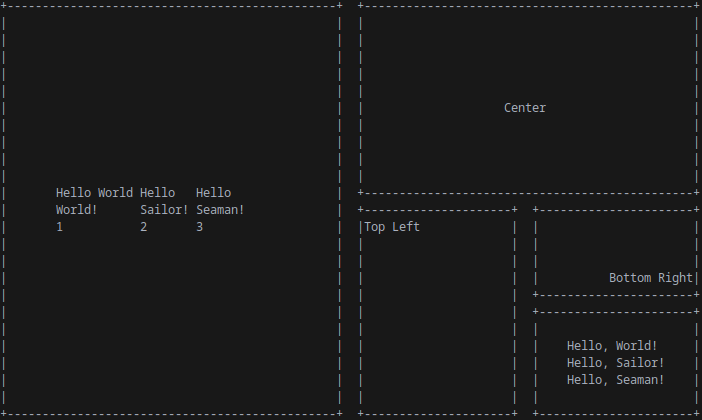
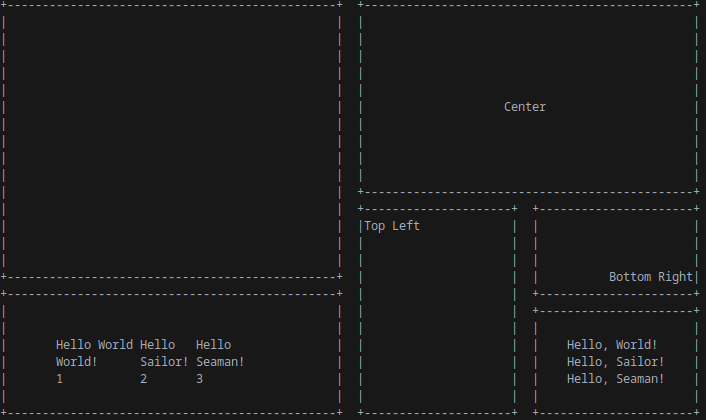
Add the possibility of splitting rectangles at a given position
Before there were only available the `split_vertically` and
`split_horizontally` methods that would split the rectangle in half by
default. Now there are `split_vertically_at` and `split_horizontally_at`
that accepts a `f32` as a percentage of the rectangle's size.

diff --git a/src/lib.rs b/src/lib.rs
@@ -50,7 +50,14 @@ impl Rectangle {
     }
 
     pub fn split_horizontally(self) -> (Rectangle, Rectangle) {
-        let width = self.width / 2;
+        self.split_horizontally_at(0.5)
+    }
+
+    pub fn split_horizontally_at(self, percentage: f32) -> (Rectangle, Rectangle) {
+        assert!(percentage > 0.0 && percentage < 1.0);
+
+        let left_width = (self.width as f32 * percentage) as u32;
+        let right_width = self.width - left_width;
         // Horizontal split without gaps        Vertical split without gaps
         //        +-----++-----+                      +------------+
         //        |     ||     |                      |            |
@@ -72,37 +79,43 @@ impl Rectangle {
         let left = Rectangle {
             x: self.x,
             y: self.y,
-            width: width - gap,
+            width: left_width - gap,
             height: self.height,
         };
         let right = Rectangle {
-            x: self.x + width + gap,
+            x: self.x + left_width + gap,
             y: self.y,
-            width: (self.width - width - gap),
+            width: (right_width - gap),
             height: self.height,
         };
 
         (left, right)
     }
-
     pub fn split_vertically(self) -> (Rectangle, Rectangle) {
-        let height = self.height / 2;
+        self.split_vertically_at(0.5)
+    }
+    pub fn split_vertically_at(self, percentage: f32) -> (Rectangle, Rectangle) {
+        assert!(percentage > 0.0 && percentage < 1.0);
+
+        let top_height = (self.height as f32 * percentage) as u32;
+        let bottom_height = self.height - top_height;
 
         let top = Rectangle {
             x: self.x,
             y: self.y,
             width: self.width,
-            height,
+            height: top_height,
         };
         let bottom = Rectangle {
             x: self.x,
-            y: self.y + height,
+            y: self.y + top_height,
             width: self.width,
-            height: (self.height - height),
+            height: bottom_height,
         };
 
         (top, bottom)
     }
+
 
     pub fn text(
         self,

diff --git a/examples/example_1.rs b/examples/example_1.rs
@@ -5,6 +5,7 @@ fn main() {
 
     let screen = terminal.area();
     let (left, right) = screen.split_horizontally();
+    let (left_top, left_bottom) = left.split_vertically_at(0.7);
     let (top, bottom) = right.split_vertically();
     let (bottom_left, bottom_right) = bottom.split_horizontally();
     let (bottom_right_top, bottom_right_bottom) = bottom_right.split_vertically();
@@ -37,7 +38,7 @@ fn main() {
         HorizontalAlignment::Center,
     );
 
-    let table = left.table(
+    let table = left_bottom.table(
         vec![
             vec![
                 "Hello World".to_string(),
@@ -55,6 +56,7 @@ fn main() {
         HorizontalAlignment::Center,
     );
 
+    left_top.render(&mut terminal);
     text_1.render(&mut terminal);
     text_2.render(&mut terminal);
     item_list.render(&mut terminal);
